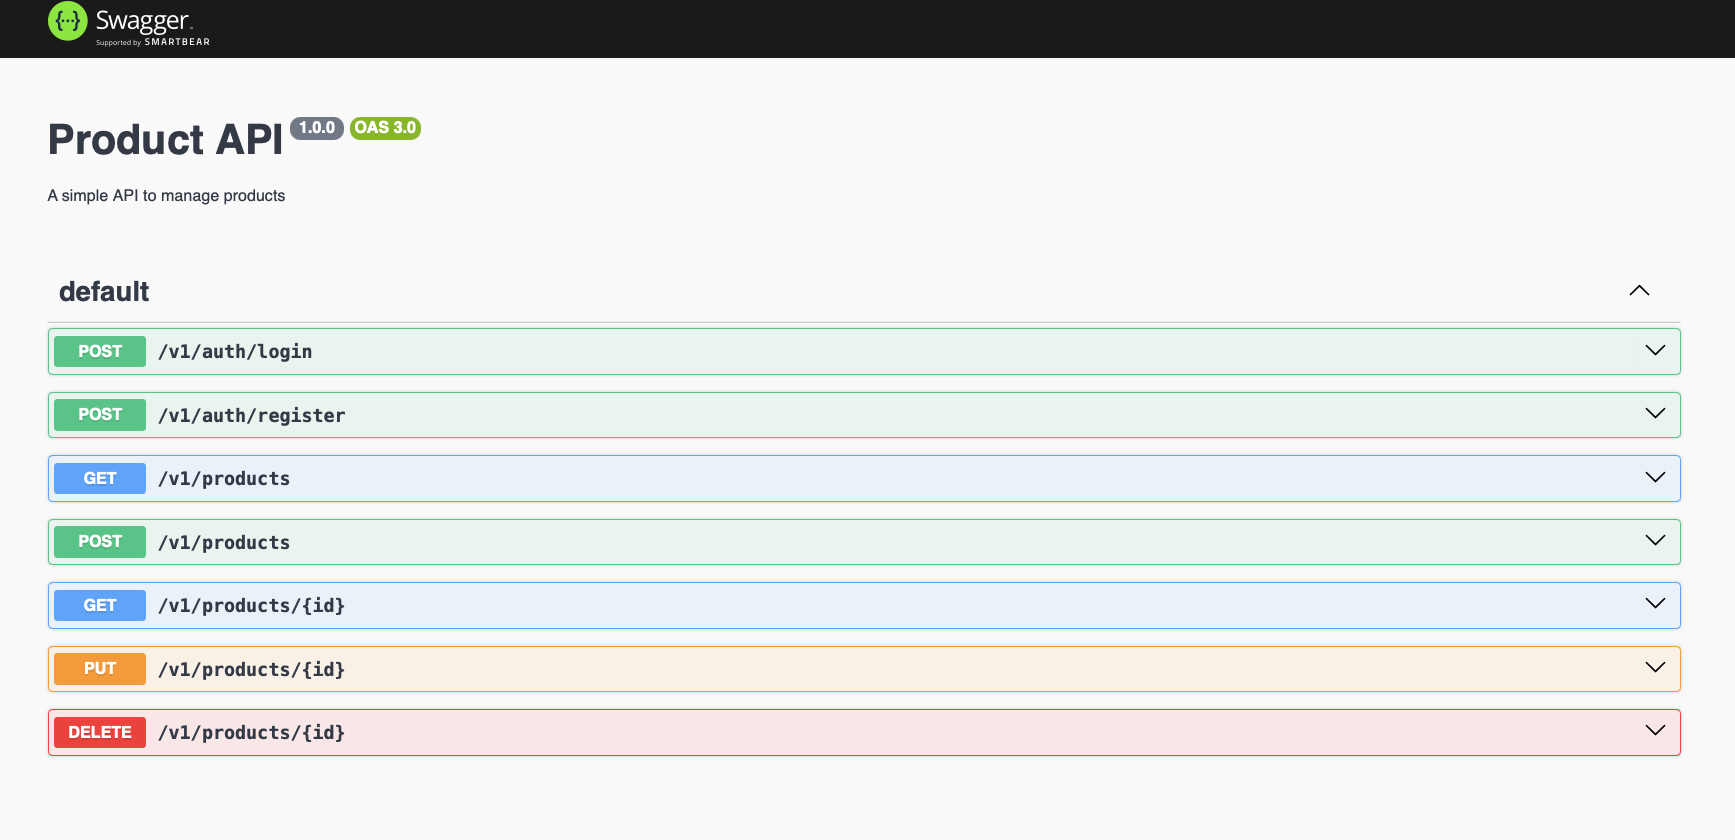
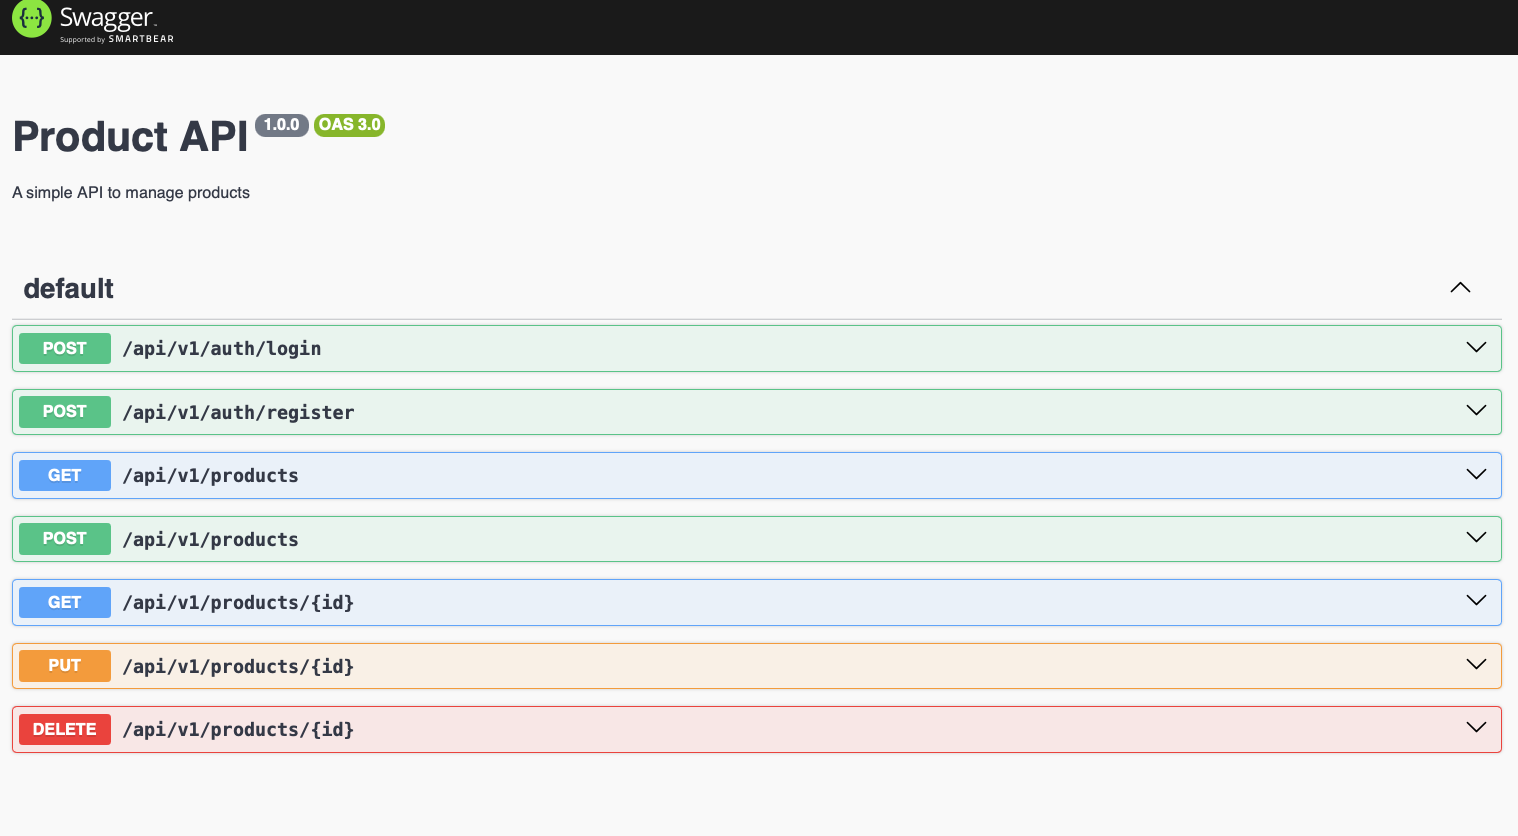
Shorten the addProdut func

diff --git a/src/controllers/products.controller.ts b/src/controllers/products.controller.ts
@@ -14,21 +14,21 @@ export const getProduct = (id: string): Product => {
 }
 
 export const addProduct = (product: Product): string => {
-    products.push({
-        id: (products.at(-1)?.id!)+1,
-        title: product.title,
-        description: product.description,
-        quantity: product.quantity,
-        category: product.category,
-        price: product.price
-    }); 
+    product.id = products.at(-1)?.id!+1;
+    const newProduct = {...product};
+    
+    products.push({...newProduct}); 
     saveJSON<Product>(products, PATH_JSON_PRODUCTS);
     return "Added Sucessfully";
 }
 
 export const updateProduct = (id: string, p: Product): string => {
-    const product = getProduct(id);
-    //  TODO 
+    for (let prod of products) {
+        if (prod.id === Number(id)) {
+            prod = {...p};
+        }
+    }
+    saveJSON<Product>(products, PATH_JSON_PRODUCTS);
     return "Updated Sucessfully";
 }
 

diff --git a/src/index.ts b/src/index.ts
@@ -41,6 +41,7 @@ const addSampleProducts = async ()  => {
 
 app.use(express.json()),
 
+// VERSIONING
 v1.use("/products", productsRoutes, )
 v1.use("/users", usersRoutes)
 v1.use("/auth", authRoutes);
@@ -51,6 +52,7 @@ app.get("/", (req: Request, res: Response) => {
     res.send("Hello World");
 });
 
+// HTTPS
 https
     .createServer(
         {

diff --git a/README.md b/README.md
@@ -21,14 +21,14 @@ git clone https://github.com/guettafa/express-backend.git
 npm install 
 ```
 
-3. Generate Certificate
+3. Generate Cert + Key for HTTPS
 ```sh
 # Execute this command in project root
 openssl req -nodes -new -x509 -keyout src/certs/server.key -out src/certs/server.cert
 ```
 
 ## Create .env file
-Create a .env file in project root. 
+The .env file should be in project root. 
 
 ```sh
 # Free to you to change values by anything you want
@@ -45,6 +45,9 @@ npm start
 
 # Look by yourself !
 You can check if everything worked as planned by going at `https://localhost:3000`
+You can even check all endpoints by visiting `https://localhost:3000/api/v1/api-docs`
+
+![swagger](assets/swagger.png)
 
 ## Features
 
@@ -53,10 +56,3 @@ You can check if everything worked as planned by going at `https://localhost:300
 - Middleware for error handling
 - Input validation
 - Simple logging
-
-## Technologies
-
-- Typescript
-- Winston (For logging)
-- ExpressJS 
-
